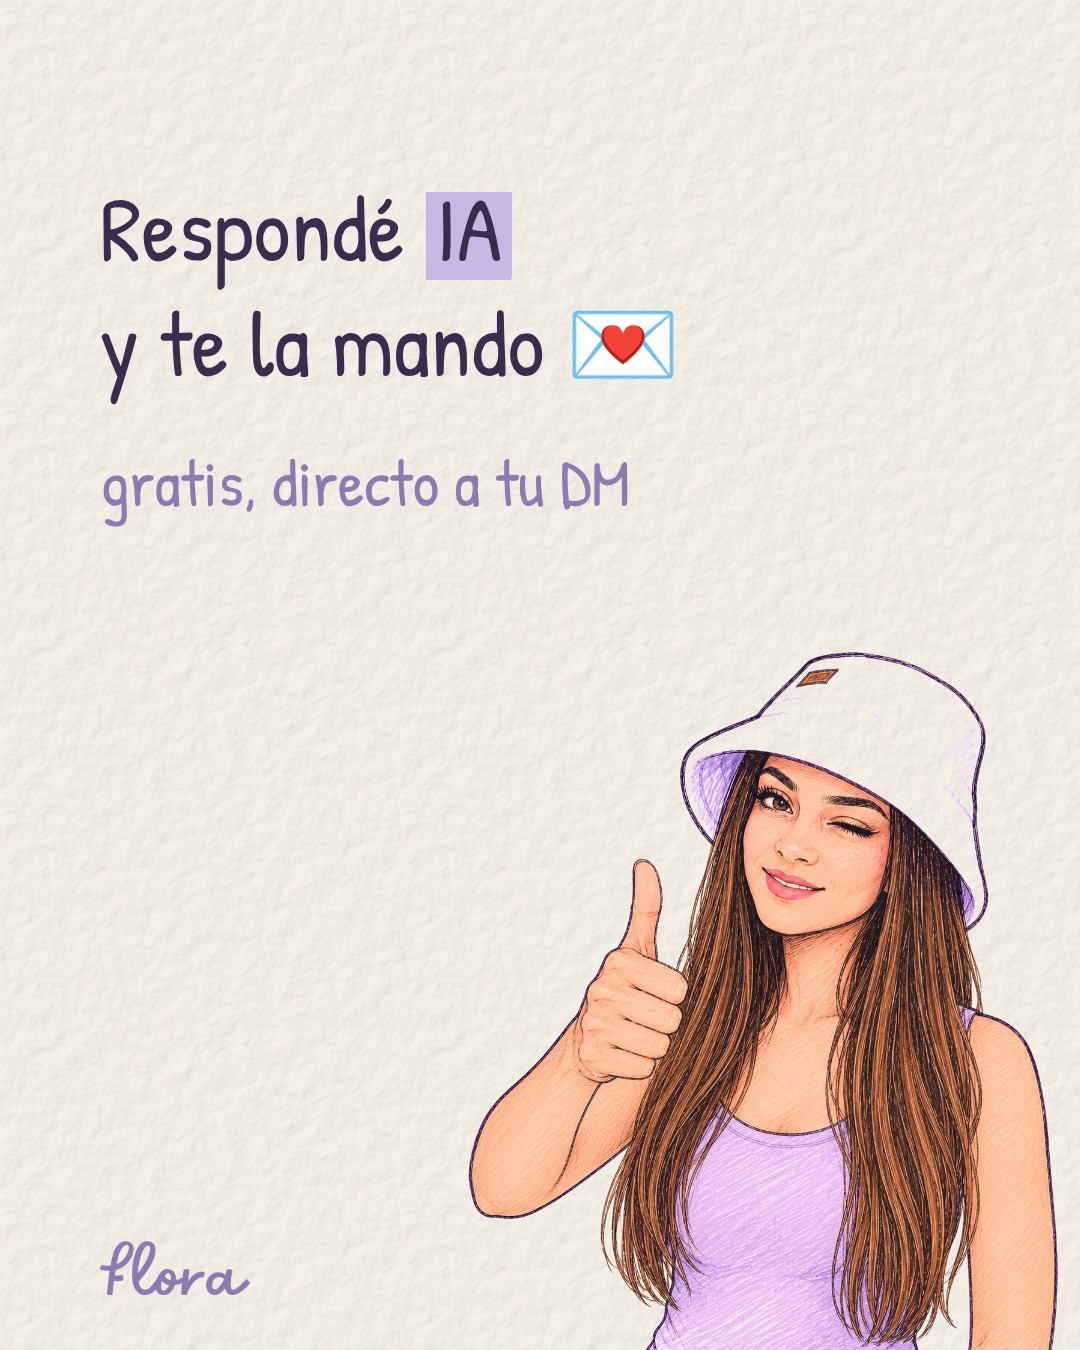
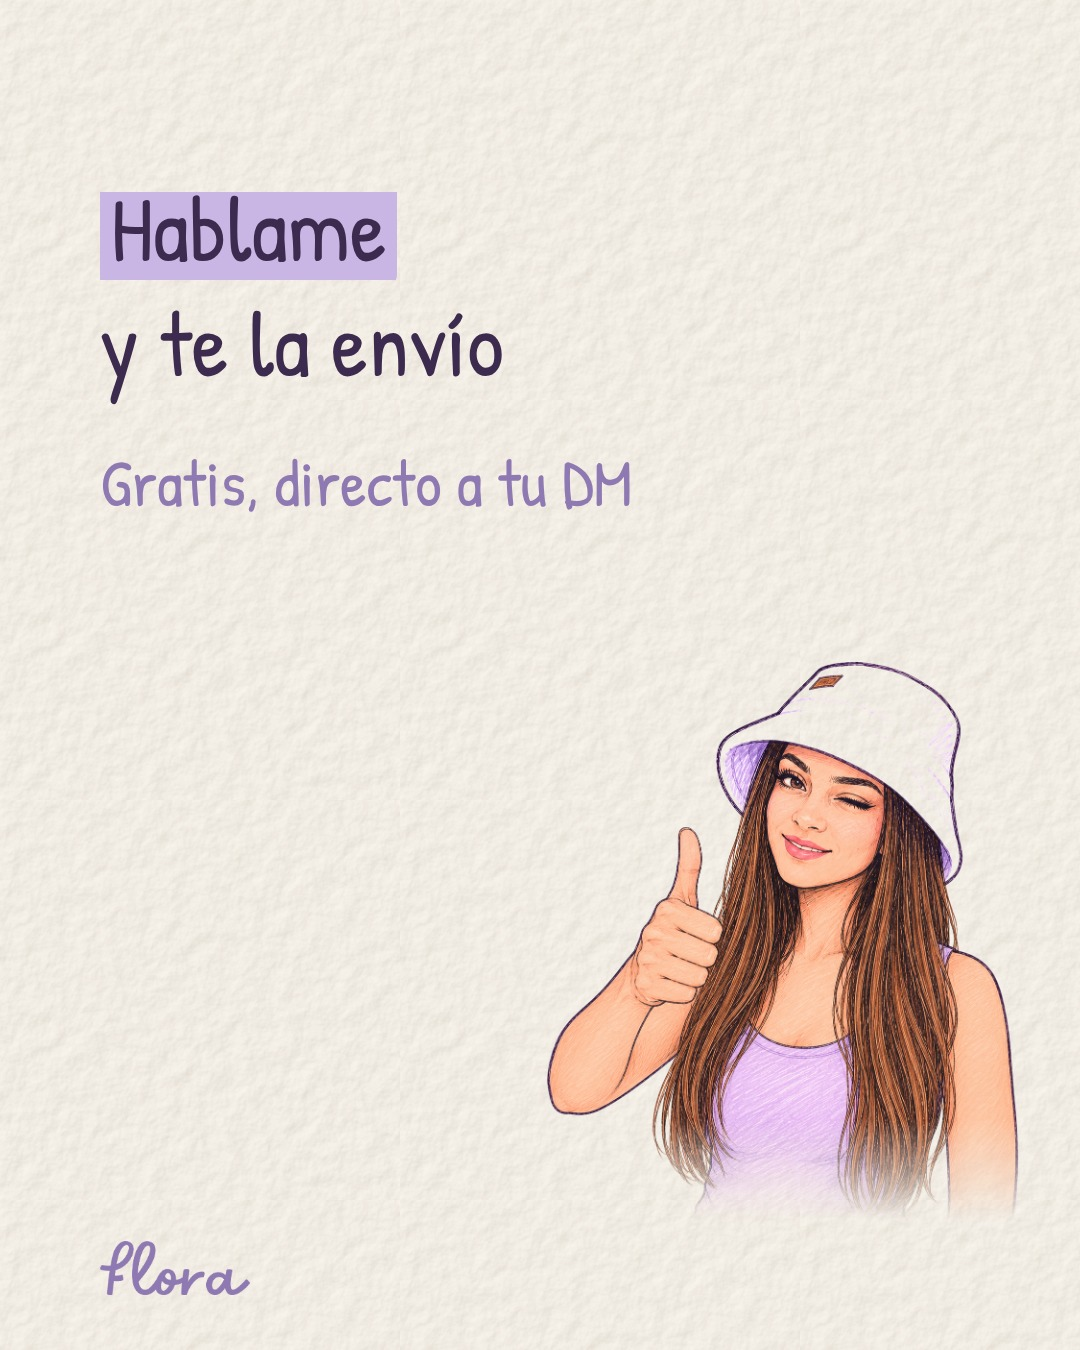
c07: nueva placa final (Hablame y te la envío)
Claude-Session: https://claude.ai/code/session_011cR66XdfPcXMXiUSVAJZ7n

diff --git a/contenido/c07-ia-papel/slide-5.html b/contenido/c07-ia-papel/slide-5.html
@@ -7,6 +7,6 @@
 .foot{position:absolute;bottom:50px;left:100px}.foot img{height:54px}
 svg.d *{fill:none;stroke:#8F79B3;stroke-width:6;stroke-linecap:round;stroke-linejoin:round}
 .row{display:flex;align-items:center;gap:30px;font-size:64px;height:118px}
-.nn{flex:0 0 78px;height:78px;border-radius:50%;border:5px solid #8F79B3;color:#8F79B3;display:flex;align-items:center;justify-content:center;font-size:52px}</style></head><body><div class="s"><div class="t" style="font-size:92px;margin-top:40px">Respondé <span class="mk">IA</span><br>y te la mando 💌</div>
-<div class="b l" style="margin-top:40px;max-width:700px">gratis, directo a tu DM</div>
-<img class="av" src="avatar-contenta.png" style="right:20px;height:700px"><div class="foot"><img src="flora-palabra-lila.png"></div></div></body></html>
+.nn{flex:0 0 78px;height:78px;border-radius:50%;border:5px solid #8F79B3;color:#8F79B3;display:flex;align-items:center;justify-content:center;font-size:52px}</style></head><body><div class="s"><div class="t" style="font-size:92px;margin-top:40px"><span class="mk">Hablame</span><br>y te la envío</div>
+<div class="b l" style="margin-top:40px;max-width:700px">Gratis, directo a tu DM</div>
+<img class="av" src="avatar-contenta.png" style="right:60px;bottom:130px;height:560px;-webkit-mask-image:linear-gradient(#000 82%,transparent)"><div class="foot"><img src="flora-palabra-lila.png"></div></div></body></html>

diff --git a/contenido/c07-ia-papel/gen.py b/contenido/c07-ia-papel/gen.py
@@ -27,8 +27,8 @@ f'''<div class="t" style="font-size:96px">No te falta tecnología.</div>
 <img class="av" src="avatar-senalando.png" style="right:10px;height:600px">''',
 f'''<div class="t" style="font-size:78px">Te armé una guía con <span class="mk">5 cosas que podés cambiar hoy</span> en tu negocio</div>
 <div style="margin-top:60px">{lista}</div>''',
-f'''<div class="t" style="font-size:92px;margin-top:40px">Respondé <span class="mk">IA</span><br>y te la mando 💌</div>
-<div class="b l" style="margin-top:40px;max-width:700px">gratis, directo a tu DM</div>
-<img class="av" src="avatar-contenta.png" style="right:20px;height:700px">''',
+f'''<div class="t" style="font-size:92px;margin-top:40px"><span class="mk">Hablame</span><br>y te la envío</div>
+<div class="b l" style="margin-top:40px;max-width:700px">Gratis, directo a tu DM</div>
+<img class="av" src="avatar-contenta.png" style="right:60px;bottom:130px;height:560px;-webkit-mask-image:linear-gradient(#000 82%,transparent)">''',
 ]
 for i,b in enumerate(S,1): open(f'slide-{i}.html','w').write(page(b))
